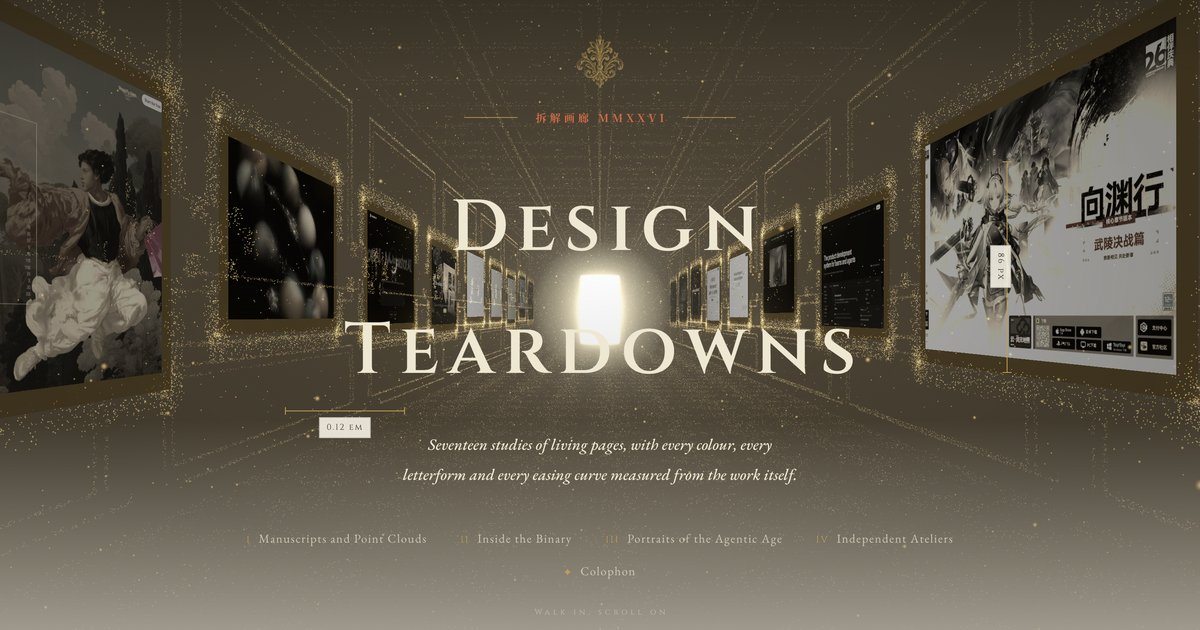
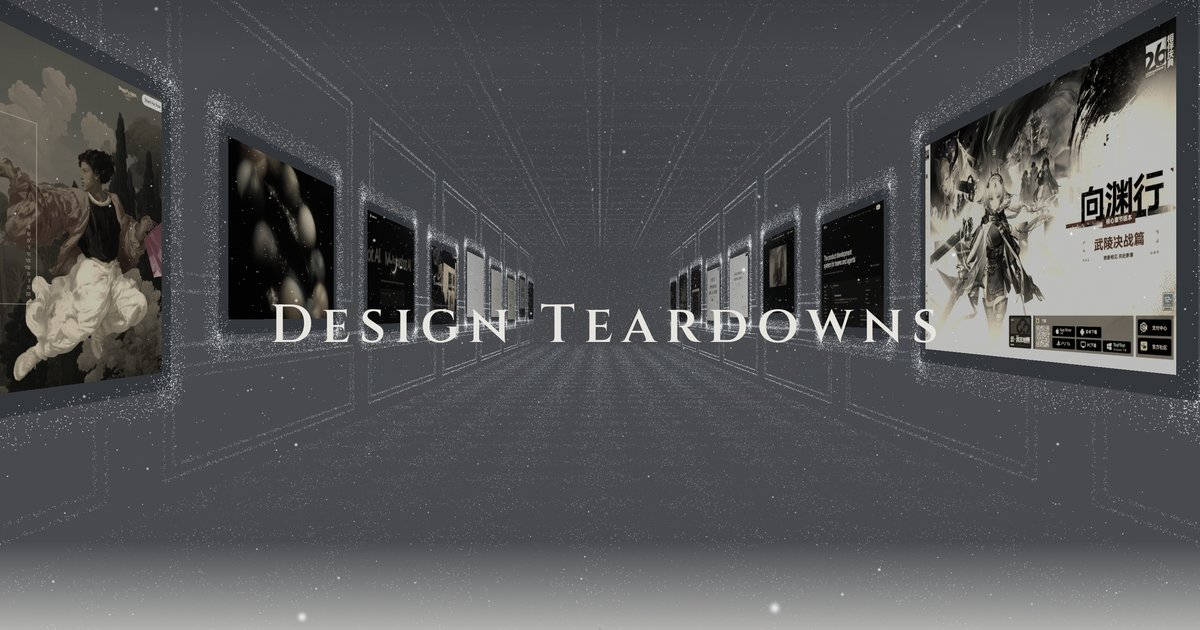
行走加惯性滑行，分享卡换水墨首帧
- 三维行走进度在渲染循环里做插值，滚轮停止后镜头缓缓滑行到位
- og 分享卡更新为当前的水墨长廊静息帧

diff --git a/teardowns/index.html b/teardowns/index.html
@@ -1575,9 +1575,11 @@ body.scrolled .spine{opacity:1;pointer-events:auto}
     }
   }
   let t = 0;
+  let pSm = 0;
   renderer.setAnimationLoop(() => {
     if (document.hidden || scrollY > walkEl.offsetHeight + 60) return;
-    const p = window.__walkP || 0;
+    pSm += ((window.__walkP || 0) - pSm) * .07;
+    const p = pSm;
     t += .016;
     uni.uTime.value = t;
     uni.uForm.value = Math.min((performance.now() - born) / 2100, 1);
